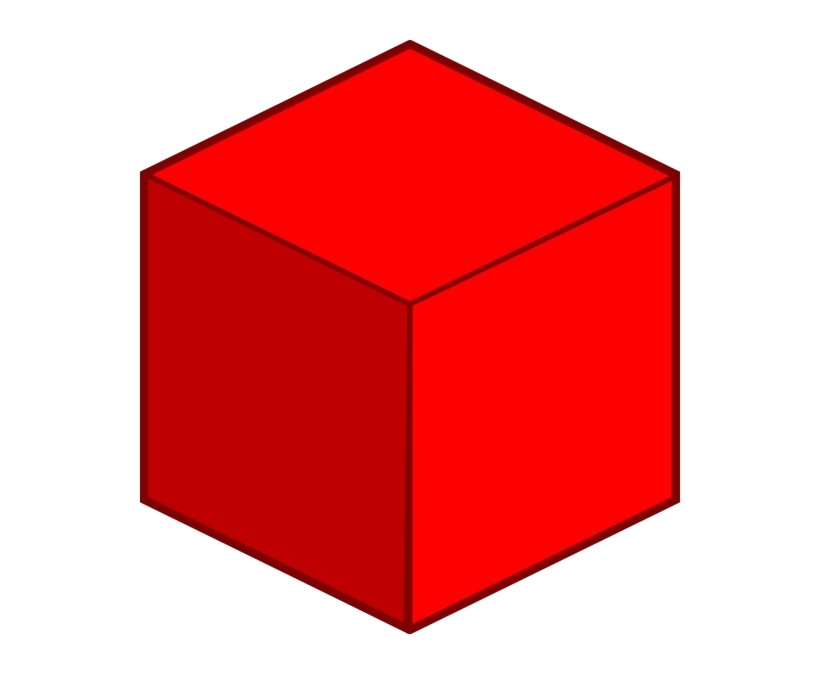
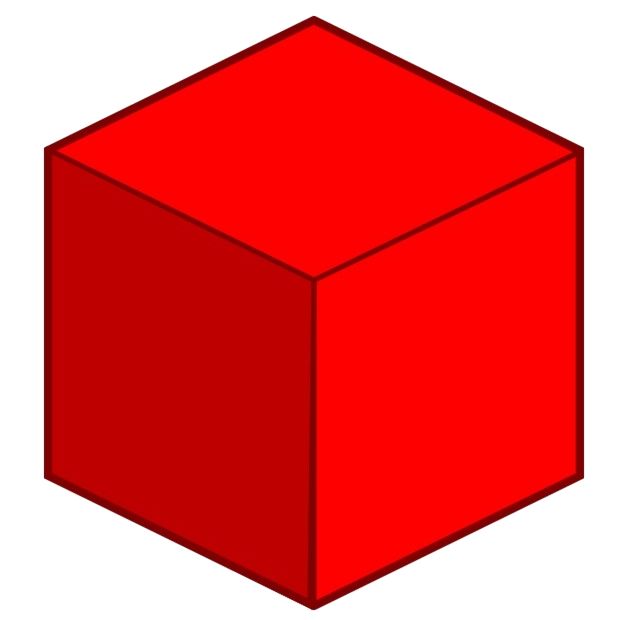
Cubes a bit more positioned

Changed region(s): [[0.06, 0.0, 0.9305, 1.0]]

diff --git a/src/components/Country.jsx b/src/components/Country.jsx
@@ -1,15 +1,33 @@
 import { useState, useEffect } from "react";
-import blackcube from "../assets/blackcube.jpg";
-import bluecube from "../assets/bluecube.jpg";
+import { nanoid } from "nanoid";
+import blackcube from "../assets/blackcube.png";
+import bluecube from "../assets/bluecube.png";
 import redcube from "../assets/redcube.png";
-import yellowcube from "../assets/yellowcube.jpg";
+import yellowcube from "../assets/yellowcube.png";
 import researchCenter from "../assets/hospital.png";
 
 export default function Country(props) {
-  const cubes = [{ color: "blue" }, { color: "blue" }];
+  const cubes = [{ color: "blue" }, { color: "blue" }, { color: "blue" }];
 
   const visualCubes = cubes.map((cube) => {
-    return <img className="cubes" src={redcube} />;
+    //switch to link color with cube
+    let visualCube;
+    switch (cube.color) {
+      case "blue":
+        visualCube = bluecube;
+        break;
+      case "black":
+        visualCube = blackcube;
+        break;
+      case "yellow":
+        visualCube = yellowcube;
+        break;
+      case "red":
+        visualCube = redcube;
+        break;
+    }
+
+    return <img key={nanoid()} className="cubes" src={visualCube} />;
   });
 
   return (

diff --git a/src/index.css b/src/index.css
@@ -102,6 +102,19 @@ body {
   width: 20px;
 }
 
+.countryVirus-div {
+  display: flex;
+  flex-wrap: wrap;
+  width: 50px;
+  justify-content: center;
+  position: absolute;
+  z-index: 90000;
+  top: -10px;
+  left: -10px;
+  cursor: pointer;
+}
+
 .cubes {
   width: 20px;
+  margin: -5px;
 }
